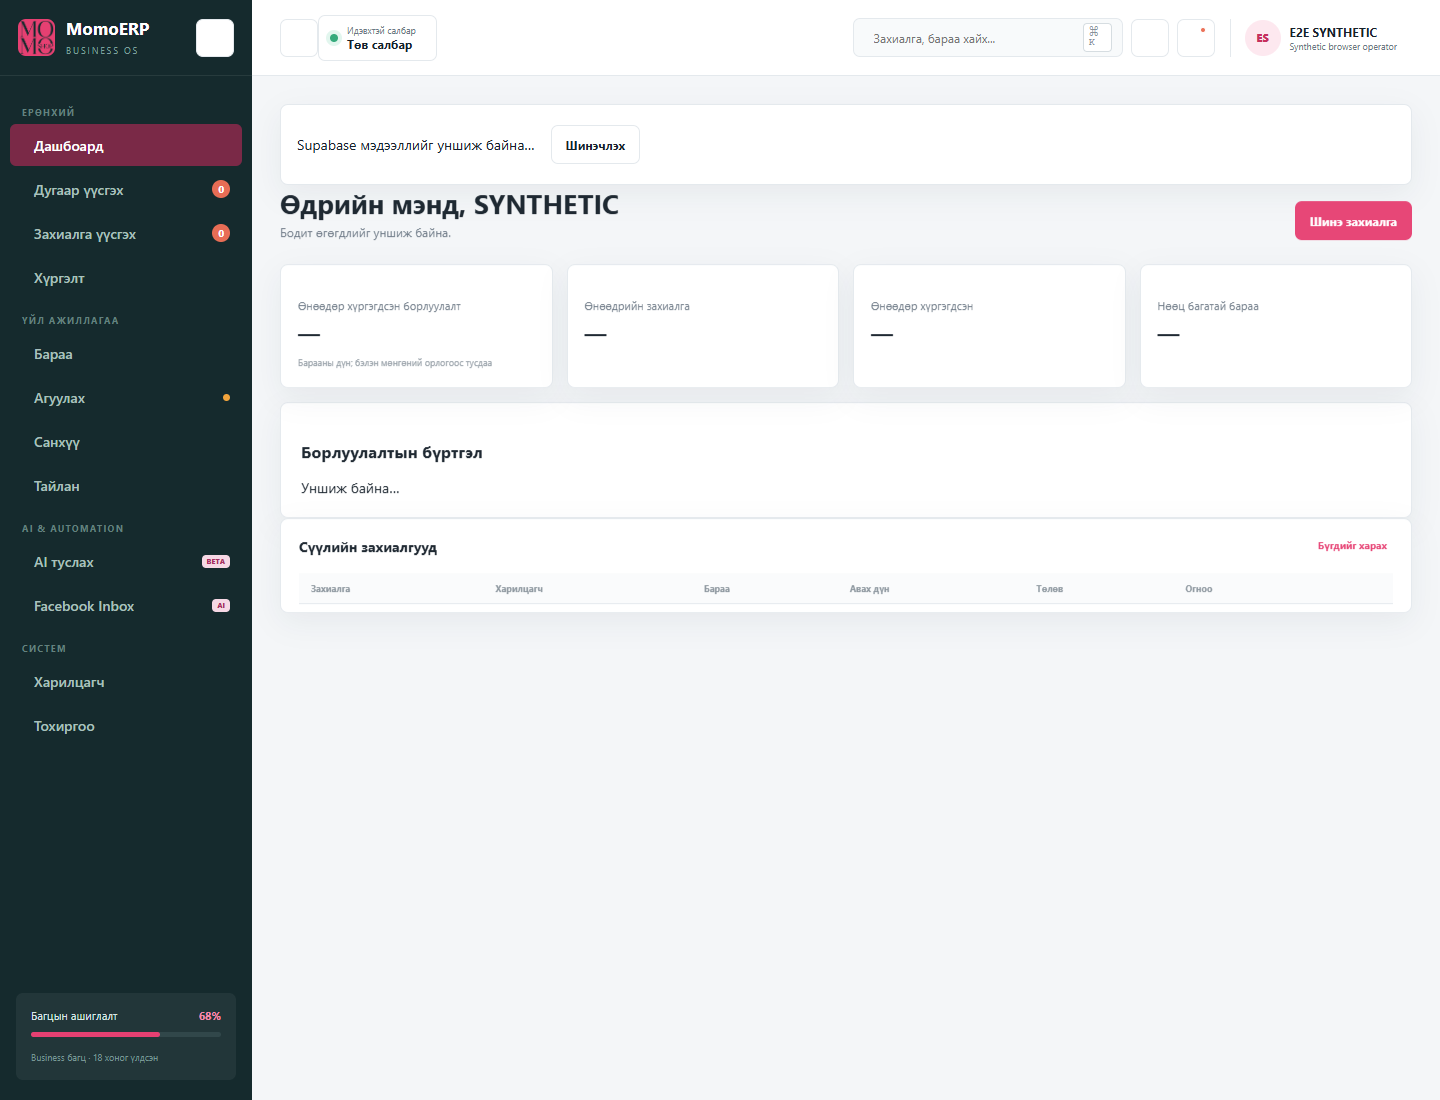
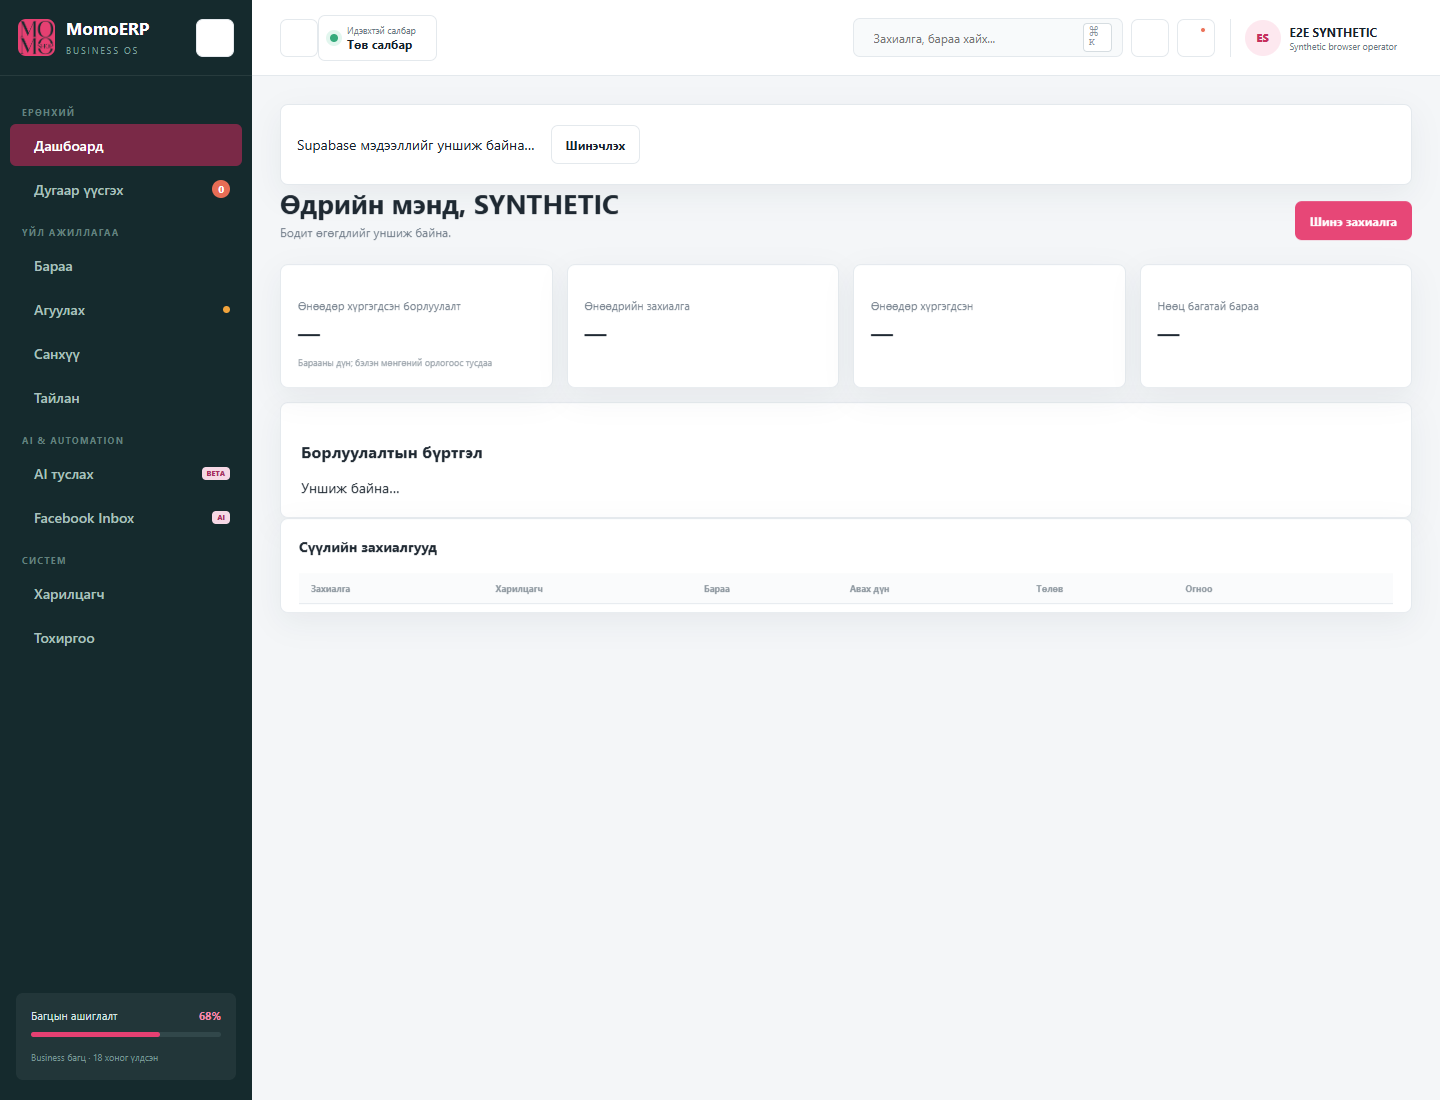
Export all permitted non-demo deliveries for delivery readers

diff --git a/dist/core-ui.js b/dist/core-ui.js
@@ -299,39 +299,45 @@
       q('#warehouse-list').innerHTML = state.warehouses.map(item => `<div class="inventory-item"><strong>${h(item.name)}</strong><span>${item.is_active ? 'Идэвхтэй' : 'Идэвхгүй'}</span>${can('inventory.manage') ? `<button data-core-warehouse="${h(item.id)}">Засах</button>` : ''}</div>`).join('') || '<p>Агуулах бүртгэгдээгүй эсвэл унших боломжгүй.</p>';
       document.querySelectorAll('[data-core-warehouse]').forEach(button => { button.onclick = () => editWarehouse(state.warehouses.find(item => item.id === button.dataset.coreWarehouse)); });
     }
-    let exportingOrders = false;
-    renderMenus = function () {
-      q('#report-grid').innerHTML = '<button data-core-report="orders">Захиалгын CSV</button><button data-core-report="deliveries">Хүргэлтийн CSV</button><button data-core-report="inventory">Үлдэгдлийн CSV</button><button data-core-report="finance">Мөнгөн урсгалын CSV</button>';
-      const orderExport = q('[data-core-report="orders"]');
-      orderExport.disabled = !can('orders.read') || exportingOrders;
-      orderExport.onclick = async () => {
-        if (exportingOrders) return;
-        exportingOrders = true;
-        orderExport.disabled = true;
+    const activeExports = new Set();
+    function bindReportExport(type, permission, columns, loadRows) {
+      const selector = '[data-core-report="' + type + '"]';
+      const button = q(selector);
+      button.disabled = !can(permission) || activeExports.has(type);
+      button.onclick = async () => {
+        if (!can(permission) || activeExports.has(type)) return;
+        activeExports.add(type);
+        button.disabled = true;
         try {
-          const orders = await service.loadOrderExport();
-          const rows = orders.map(item => ({
-            order: `ORD-${item.order_number}`, customer: item.customer_name, phone: item.phone_normalized,
-            status: format.orderLabels[item.status], total: item.product_total, collect: item.collect_amount, createdAt: item.created_at,
-          }));
-          exportRows(rows, `momo-orders-${new Date().toISOString().slice(0, 10)}.csv`,
-            ['order', 'customer', 'phone', 'status', 'total', 'collect', 'createdAt']);
+          const rows = await loadRows();
+          exportRows(rows, 'momo-' + type + '-' + new Date().toISOString().slice(0, 10) + '.csv', columns);
         } catch (error) {
-          showToast(error.message || 'Захиалгын тайланг татаж чадсангүй.', 'error');
+          showToast(error.message || 'Тайланг татаж чадсангүй.', 'error');
         } finally {
-          exportingOrders = false;
-          q('[data-core-report="orders"]').disabled = !can('orders.read');
+          activeExports.delete(type);
+          q(selector).disabled = !can(permission);
         }
       };
+    }
+    renderMenus = function () {
+      q('#report-grid').innerHTML = '<button data-core-report="orders">Захиалгын CSV</button><button data-core-report="deliveries">Хүргэлтийн CSV</button><button data-core-report="inventory">Үлдэгдлийн CSV</button><button data-core-report="finance">Мөнгөн урсгалын CSV</button>';
+      bindReportExport('orders', 'orders.read', ['order', 'customer', 'phone', 'status', 'total', 'collect', 'createdAt'],
+        async () => (await service.loadOrderExport()).map(item => ({
+          order: 'ORD-' + item.order_number, customer: item.customer_name, phone: item.phone_normalized,
+          status: format.orderLabels[item.status], total: item.product_total, collect: item.collect_amount, createdAt: item.created_at,
+        })));
+      bindReportExport('deliveries', 'deliveries.read', ['orderId', 'status', 'courierId', 'deliveredAt'],
+        async () => (await service.loadDeliveryExport()).map(item => ({
+          orderId: item.order_id, status: deliveryLabels[item.status], courierId: item.courier_id, deliveredAt: item.delivered_at,
+        })));
       const inventoryExport = q('[data-core-report="inventory"]');
       if (state?.limited.balances) inventoryExport.textContent = `Үлдэгдлийн CSV (сүүлийн ${state.balances.length} мөр)`;
       inventoryExport.disabled = !can('inventory.read') || Boolean(state?.errors.balances);
-      document.querySelectorAll('[data-core-report]:not([data-core-report="orders"])').forEach(button => { button.onclick = () => {
+      document.querySelectorAll('[data-core-report="inventory"], [data-core-report="finance"]').forEach(button => { button.onclick = () => {
         const type = button.dataset.coreReport;
-        const permission = { deliveries: 'deliveries.read', inventory: 'inventory.read', finance: 'finance.view' }[type];
+        const permission = { inventory: 'inventory.read', finance: 'finance.view' }[type];
         if (!can(permission)) { showToast('Энэ мэдээллийг унших эрхгүй.', 'error'); return; }
-        const rows = { deliveries: state.deliveries.map(item => ({ orderId: item.order_id, status: deliveryLabels[item.status], courierId: item.courier_id, deliveredAt: item.delivered_at })),
-          inventory: state.balances.map(item => ({ warehouseId: item.warehouse_id, productId: item.product_id, quantity: item.quantity })),
+        const rows = { inventory: state.balances.map(item => ({ warehouseId: item.warehouse_id, productId: item.product_id, quantity: item.quantity })),
           finance: state.finance.map(item => ({ type: item.entry_type, amount: item.amount, description: item.description, occurredAt: item.occurred_at })) }[type];
         exportRows(rows, `momo-${type}-${new Date().toISOString().slice(0, 10)}.csv`);
       }; });

diff --git a/dist/core-service.js b/dist/core-service.js
@@ -69,25 +69,30 @@
       if (!Array.isArray(data)) throw friendly({ code: 'invalid_response' });
       return { rows: data, total: Number.isSafeInteger(count) ? count : null, limited: count !== null && count > data.length };
     }
-    async loadOrderExport() {
+    loadOrderExport() {
+      return this.#readExport('orders.read', 'orders', 'order_number',
+        'order_number::text,customer_name,phone_normalized,status,product_total,collect_amount,created_at');
+    }
+    loadDeliveryExport() {
+      return this.#readExport('deliveries.read', 'core_delivery_export', 'order_id',
+        'order_id,status,courier_id,delivered_at');
+    }
+    async #readExport(permission, table, cursor, columns) {
       const rows = [];
       let before = null, total;
       do {
-        if (!this.can('orders.read')) throw friendly({ code: '42501' });
-        // Keep the bigint cursor exact in JavaScript. Concurrent new orders
-        // above this cursor belong to the next export.
-        let query = this.client.from('orders')
-          .select('order_number::text,customer_name,phone_normalized,status,product_total,collect_amount,created_at',
-            before === null ? { count: 'exact' } : {})
-          .eq('organization_id', this.organizationId).eq('is_demo', false);
-        if (before !== null) query = query.lt('order_number', before);
-        const { data, error, count } = await query.order('order_number', { ascending: false }).limit(500);
+        if (!this.can(permission)) throw friendly({ code: '42501' });
+        let query = this.client.from(table).select(columns, before === null ? { count: 'exact' } : {})
+          .eq('organization_id', this.organizationId);
+        if (table === 'orders') query = query.eq('is_demo', false);
+        if (before !== null) query = query.lt(cursor, before);
+        const { data, error, count } = await query.order(cursor, { ascending: false }).limit(500);
         if (error) throw friendly(error);
         if (before === null) total = count;
         if (!Array.isArray(data) || !Number.isSafeInteger(total) || total < 0) throw friendly({ code: 'invalid_response' });
         if ((!data.length && rows.length < total) || rows.length + data.length > total) throw friendly({ code: '40001' });
         rows.push(...data);
-        if (data.length) before = data[data.length - 1].order_number;
+        if (data.length) before = data[data.length - 1][cursor];
       } while (rows.length < total);
       return rows;
     }

diff --git a/MOMO_CORE_DATA_CONTRACT.md b/MOMO_CORE_DATA_CONTRACT.md
@@ -28,7 +28,7 @@
 
 Read бүрт `organization_id` explicit filter, orders/leads/finance-д `is_demo=false` өгнө. RLS давхар шалгана. Social-ийн шинэ хүснэгтүүдийг core data load заавал шаардахгүй. Page credential_reference/token column select хийхгүй.
 
-Каталог нь тухайн байгууллагын идэвхтэй барааг серверээс 24-өөр хуудаслаж, нэр болон ID-аар эрэмбэлнэ. Нэр, SKU хайлт болон ангиллын шүүлтийг хуудаслахаас өмнө хэрэглэнэ. Харагдах тоо нь шүүлтэд таарсан бүх барааны тоо. Захиалга, дугаарын маягт хоёр ба түүнээс олон тэмдэгтээр тухайн байгууллагын бүх идэвхтэй барааны нэр, SKU-г серверээс хайж, эхний 30 үр дүнг харуулна. Нөөцийн хөдөлгөөний маягт мөн идэвхтэй каталогоос хайна. Захиалгын CSV нь orders.read эрхээр тухайн байгууллагын is_demo=false захиалгыг order_number буурах дарааллаар, 500 хүртэл мөрөөр үргэлжлүүлэн уншина. Эхний хүсэлтийн мөрийн тоогоор бүрэн эсэхийг шалгаад файл үүсгэнэ. Унших явцад өөрчлөгдсөн төлөв тухайн хуудсыг татсан үеийн утгатай байна. Бусад дэлгэрэнгүй жагсаалт болон хүргэлт, үлдэгдэл, мөнгөн урсгалын CSV тус бүр 500 хүртэл мөртэй. Нийлбэрийг серверийн RPC бүх зөвшөөрөгдсөн үндсэн өгөгдлөөр тооцно. Уншихад алдаа гарвал тухайн мэдээллийг тодорхойгүй гэж харуулна.
+Каталог нь тухайн байгууллагын идэвхтэй барааг серверээс 24-өөр хуудаслаж, нэр болон ID-аар эрэмбэлнэ. Нэр, SKU хайлт болон ангиллын шүүлтийг хуудаслахаас өмнө хэрэглэнэ. Харагдах тоо нь шүүлтэд таарсан бүх барааны тоо. Захиалга, дугаарын маягт хоёр ба түүнээс олон тэмдэгтээр тухайн байгууллагын бүх идэвхтэй барааны нэр, SKU-г серверээс хайж, эхний 30 үр дүнг харуулна. Нөөцийн хөдөлгөөний маягт мөн идэвхтэй каталогоос хайна. Захиалгын CSV нь orders.read эрхээр тухайн байгууллагын is_demo=false захиалгыг order_number буурах дарааллаар, 500 хүртэл мөрөөр үргэлжлүүлэн уншина. Эхний хүсэлтийн мөрийн тоогоор бүрэн эсэхийг шалгаад файл үүсгэнэ. Унших явцад өөрчлөгдсөн төлөв тухайн хуудсыг татсан үеийн утгатай байна. Хүргэлтийн CSV нь deliveries.read эрхээр тухайн байгууллагын демо бус захиалгатай холбогдсон хүргэлтүүдийг order_id буурах дарааллаар 500 хүртэл мөрөөр уншина. Файлд захиалгын ID, хүргэлтийн төлөв, хүргэгчийн ID ба хүргэсэн хугацаа орно. Бусад дэлгэрэнгүй жагсаалт болон үлдэгдэл, мөнгөн урсгалын CSV тус бүр 500 хүртэл мөртэй. Нийлбэрийг серверийн RPC бүх зөвшөөрөгдсөн үндсэн өгөгдлөөр тооцно. Уншихад алдаа гарвал тухайн мэдээллийг тодорхойгүй гэж харуулна.
 
 Dashboard борлуулалт нь хүргэгдсэн захиалгын барааны дүн. Мөнгөн орлого нь `finance_entries`-д ажилтан бүртгэсэн collection. Хоёрыг давхар нэмж орлого гэж тооцохгүй. Санхүүгийн `income − expense`-г **цэвэр мөнгөн урсгал** гэж нэрлэнэ; цэвэр ашиг/татвар/элэгдэл/бүрэн double-entry accounting гэж тайлагнахгүй. Receivable нь хүргэгдсэн захиалгын collection due-аас холбоотой income-ийг хассан серверийн тооцоо.
 

diff --git a/docs/MOMO_CORE_DATABASE_CONTRACT.md b/docs/MOMO_CORE_DATABASE_CONTRACT.md
@@ -4,6 +4,16 @@ Checked: **2026-11-26, Asia/Ulaanbaatar**. Implemented in the isolated checkout 
 
[1 lines of base64/hex data omitted]
 
+## Delivery export
+
+The `core_delivery_export` view applies the caller's delivery RLS policies. Its
+private order-key projection checks the active organization, `deliveries.read`
+and the parent order's demo flag. Joining on both organization and order ID
+excludes inconsistent tenant links. The public projection contains organization
+ID, order ID, delivery status, courier ID and delivery timestamp. Delivery-only
+roles can export these fields while customer and financial fields retain their
+existing access controls. Each export page reads current committed data.
+
 ## RPC surface
 
 The browser calls Supabase `client.rpc(name, arguments)` with its own authenticated JWT. These are local implemented SQL functions, not claims that production already exposes them. Tenant and actor come from `auth.uid()`, active profile and `current_organization_id()`, never from a caller-supplied organization/actor. No service-role key belongs in the frontend.
